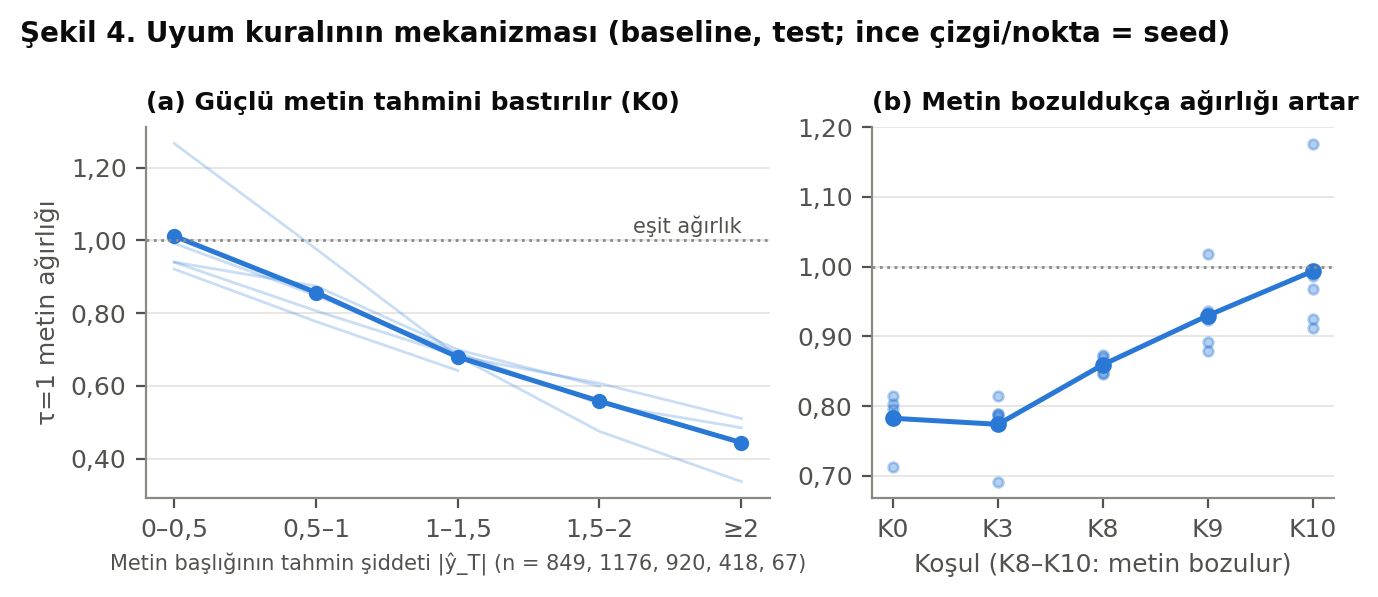
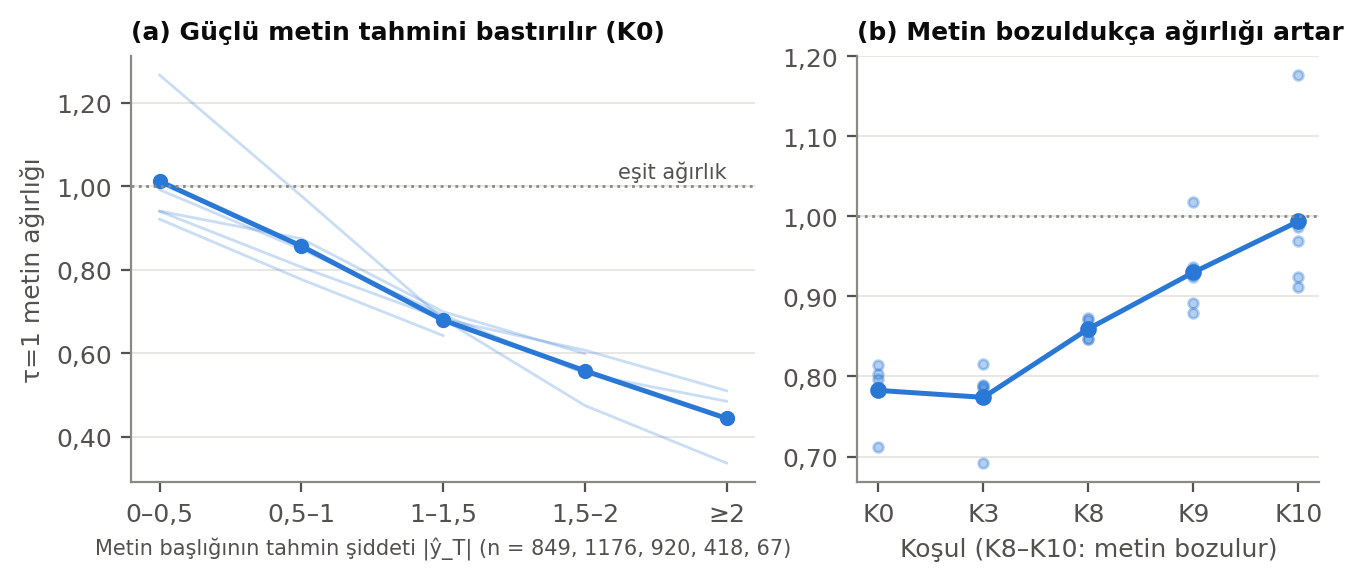
research: draw report figures without in-image titles
The report now adds numbered captions in Word, so the PNGs drop their
"Şekil N." titles by default; --with-titles restores them. Figures were
redrawn from the same hash-pinned inputs.

diff --git a/research/make_selfmm_figures.py b/research/make_selfmm_figures.py
@@ -35,6 +35,7 @@ TAUS = (0.25, 0.5, 1.0, 2.0, 4.0, 8.0, 16.0)
 BLUE, ORANGE = '#2a78d6', '#eb6834'
 INK, INK_2, INK_3, GRID = '#0b0b0b', '#52514e', '#8a8984', '#e4e3df'
 SURFACE = '#ffffff'
+SHOW_TITLES = False
 INPUTS = ('diagnostics_v2/validation/summary_metrics.csv', 'diagnostics_v2/evaluation_test/summary_metrics.csv',
           'diagnostics_v2/evaluation_test/weight_summary_by_seed.csv', 'diagnostics_v2/bootstrap/bootstrap_test.csv',
           'diagnostics_v2/predictions/predictions_test.csv.gz', 'diagnostics_v2/validation/selection.json',
@@ -70,6 +71,12 @@ def decimal_axis(ax, axis='y', digits=2):
     (ax.yaxis if axis == 'y' else ax.xaxis).set_major_formatter(formatter)
 
 
+def title(ax, text):
+    # The report adds numbered captions in Word; titles inside the PNG are optional.
+    if SHOW_TITLES:
+        ax.set_title(text)
+
+
 def save(fig, path):
     fig.savefig(path, dpi=200, bbox_inches='tight', metadata={'Software': None})
     plt.close(fig)
@@ -100,7 +107,7 @@ def fig_conditions(out):
     ax.set_ylim(0.6, 1.58)
     decimal_axis(ax)
     ax.set_ylabel('Test MAE (düşük iyi)')
-    ax.set_title('Şekil 1. Koşullara göre A/B/C/D, beş seed ortalaması ± SS')
+    title(ax, 'Şekil 1. Koşullara göre A/B/C/D, beş seed ortalaması ± SS')
     ax.legend(ncol=2, loc='upper left', bbox_to_anchor=(0.01, 0.9), handlelength=2.6)
     save(fig, out / 'fig1_conditions_abcd.png')
 
@@ -124,7 +131,7 @@ def fig_tau(out):
     ax.annotate(f"validation’da seçilen τ* = {selection['selected_tau']:g}", (16, 0.73), xytext=(-8, 30),
                 textcoords='offset points', ha='right', fontsize=8, color=INK_2,
                 arrowprops=dict(arrowstyle='-', color=INK_3, linewidth=0.8))
-    ax.set_title('Şekil 2. Ağırlıklandırmanın dozu: τ büyüdükçe zarar kaybolur (baseline)')
+    title(ax, 'Şekil 2. Ağırlıklandırmanın dozu: τ büyüdükçe zarar kaybolur (baseline)')
     ax.legend(loc='upper right', ncol=2)
     save(fig, out / 'fig2_tau_sweep.png')
 
@@ -154,7 +161,7 @@ def fig_variants(out):
     ax.xaxis.set_major_locator(matplotlib.ticker.MultipleLocator(0.05))
     decimal_axis(ax, 'x', 2)
     ax.set_xlabel('Test MAE farkı (pozitif = daha kötü); nokta ve %95 bootstrap aralığı, beş seed ortalaması')
-    ax.set_title('Şekil 3. Zarar metin ölçeklemesinden gelir; uyum sinyali rastgeleden iyi değil')
+    title(ax, 'Şekil 3. Zarar metin ölçeklemesinden gelir; uyum sinyali rastgeleden iyi değil')
     save(fig, out / 'fig3_variants_bootstrap.png')
 
 
@@ -197,8 +204,9 @@ def fig_mechanism(out):
     right.set_xlabel('Koşul (K8–K10: metin bozulur)')
     decimal_axis(right)
     right.set_title('(b) Metin bozuldukça ağırlığı artar', fontsize=9)
-    fig.suptitle('Şekil 4. Uyum kuralının mekanizması (baseline, test; ince çizgi/nokta = seed)', x=0.01, ha='left',
-                 fontsize=10, fontweight='bold', color=INK)
+    if SHOW_TITLES:
+        fig.suptitle('Şekil 4. Uyum kuralının mekanizması (baseline, test; ince çizgi/nokta = seed)', x=0.01, ha='left',
+                     fontsize=10, fontweight='bold', color=INK)
     fig.tight_layout()
     save(fig, out / 'fig4_mechanism.png')
 
@@ -218,7 +226,7 @@ def fig_cost(out):
     ax.set_ylabel('ms / örnek (batch 4)')
     ax.set_ylim(0, 12)
     decimal_axis(ax, 'y', 0)
-    ax.set_title('Şekil 5. Çıkarım maliyeti (seed 1111, K0, 6 tur)')
+    title(ax, 'Şekil 5. Çıkarım maliyeti (seed 1111, K0, 6 tur)')
     save(fig, out / 'fig5_inference_cost.png')
 
 
@@ -227,11 +235,14 @@ def main(argv=None):
                                      formatter_class=argparse.RawDescriptionHelpFormatter)
     parser.add_argument('--output-dir', type=Path, default=HERE / 'figures')
     parser.add_argument('--replace', action='store_true', help='Overwrite existing figure files')
+    parser.add_argument('--with-titles', action='store_true', help='Draw titles inside the PNGs (report captions omit them)')
     cli = parser.parse_args(argv)
     out = cli.output_dir
     if out.exists() and any(out.iterdir()) and not cli.replace:
         raise SystemExit(f'Figur klasoru dolu; yeniden cizmek icin --replace verin: {out}')
     out.mkdir(exist_ok=True)
+    global SHOW_TITLES
+    SHOW_TITLES = cli.with_titles
     style()
     for draw in (fig_conditions, fig_tau, fig_variants, fig_mechanism, fig_cost):
         draw(out)
